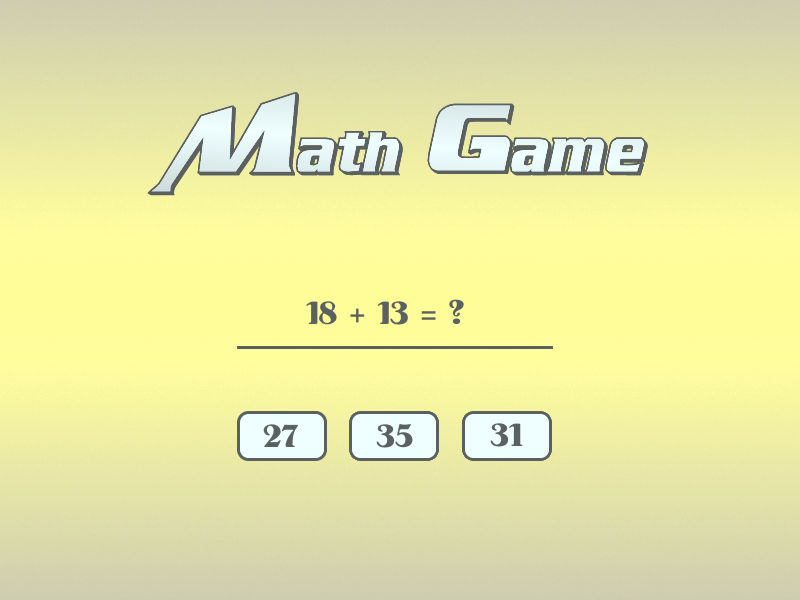
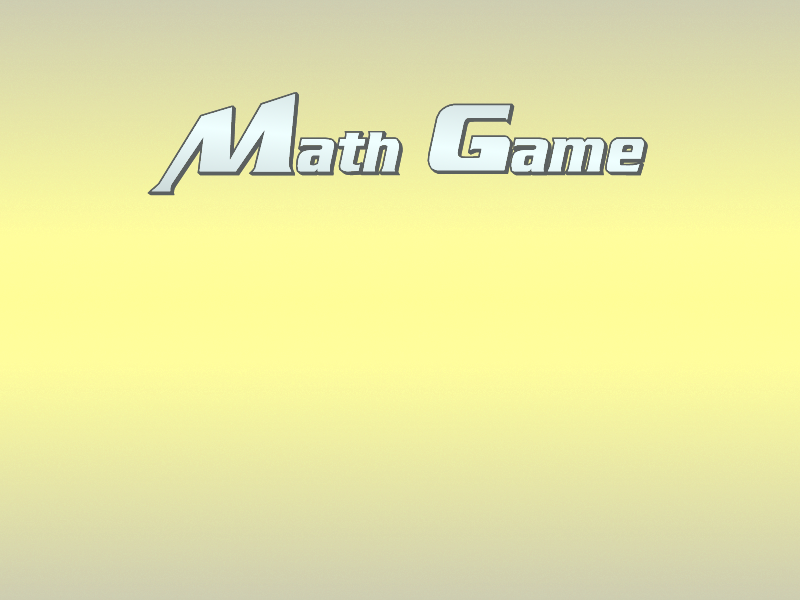
Player-klass skapad, mathgame smått påbörjat, mm.
Player-klass som ska hålla reda på spelares scores i olika spel.
Påbörjat UI på mathgame samt börjat skissa på svårighetsgraderna.

Changed region(s): [[0.2812, 0.66, 0.6875, 0.78], [0.3125, 0.57, 0.6875, 0.6], [0.375, 0.48, 0.5938, 0.54]]

diff --git a/src/gotBrains/MathGameWindow.java b/src/gotBrains/MathGameWindow.java
@@ -16,6 +16,9 @@ public class MathGameWindow extends JPanel implements ActionListener {
 	private ImageIcon iconMenuHover = new ImageIcon("images/menuButtonHover.png");
 	private JButton btnQuit = new JButton(iconQuit);
 	private JButton btnMenu = new JButton(iconMenu);
+	private JButton btnStartEasy = new JButton("Easy");
+	private JButton btnStartMedium = new JButton("Medium");
+	private JButton btnStartHard = new JButton("Hard");
 	private Controller controller;
 
 	public MathGameWindow(Controller controller) {
@@ -38,6 +41,27 @@ public class MathGameWindow extends JPanel implements ActionListener {
 		btnMenu.setBounds(-2, -2, 120, 30);
 		btnMenu.addActionListener(this);
 		btnMenu.setRolloverIcon(iconMenuHover);
+		
+		add(btnStartEasy);
+		btnStartEasy.setOpaque(false);
+		btnStartEasy.setContentAreaFilled(true);
+		btnStartEasy.setBorderPainted(true);
+		btnStartEasy.setBounds(290, 400, 80, 30);
+		btnStartEasy.addActionListener(this);
+		
+		add(btnStartMedium);
+		btnStartMedium.setOpaque(false);
+		btnStartMedium.setContentAreaFilled(true);
+		btnStartMedium.setBorderPainted(true);
+		btnStartMedium.setBounds(375, 400, 80, 30);
+		btnStartMedium.addActionListener(this);
+		
+		add(btnStartHard);
+		btnStartHard.setOpaque(false);
+		btnStartHard.setContentAreaFilled(true);
+		btnStartHard.setBorderPainted(true);
+		btnStartHard.setBounds(460, 400, 80, 30);
+		btnStartHard.addActionListener(this);
 	}
 
 	protected void paintComponent(Graphics g) {

diff --git a/src/gotBrains/Player.java b/src/gotBrains/Player.java
@@ -1,0 +1,41 @@
+package gotBrains;
+
+public class Player {
+	private String username;
+	private int scrabbleScore, mathGameScore, simonSaysScore;
+
+	public Player(String username) {
+		this.username = username;
+		setScrabbleScore(0);
+		setMathGameScore(0);
+		setSimonSaysScore(0);	
+	}
+
+	private void setSimonSaysScore(int score) {
+		this.simonSaysScore = score;
+	}
+
+	private void setMathGameScore(int score) {
+		this.mathGameScore = score;
+	}
+
+	private void setScrabbleScore(int score) {
+		this.simonSaysScore = score;
+	}
+
+	public String getUsername() {
+		return username;
+	}
+
+	public int getScrabbleScore() {
+		return scrabbleScore;
+	}
+
+	public int getMathGameScore() {
+		return mathGameScore;
+	}
+
+	public int getSimonSaysScore() {
+		return simonSaysScore;
+	}
+}
